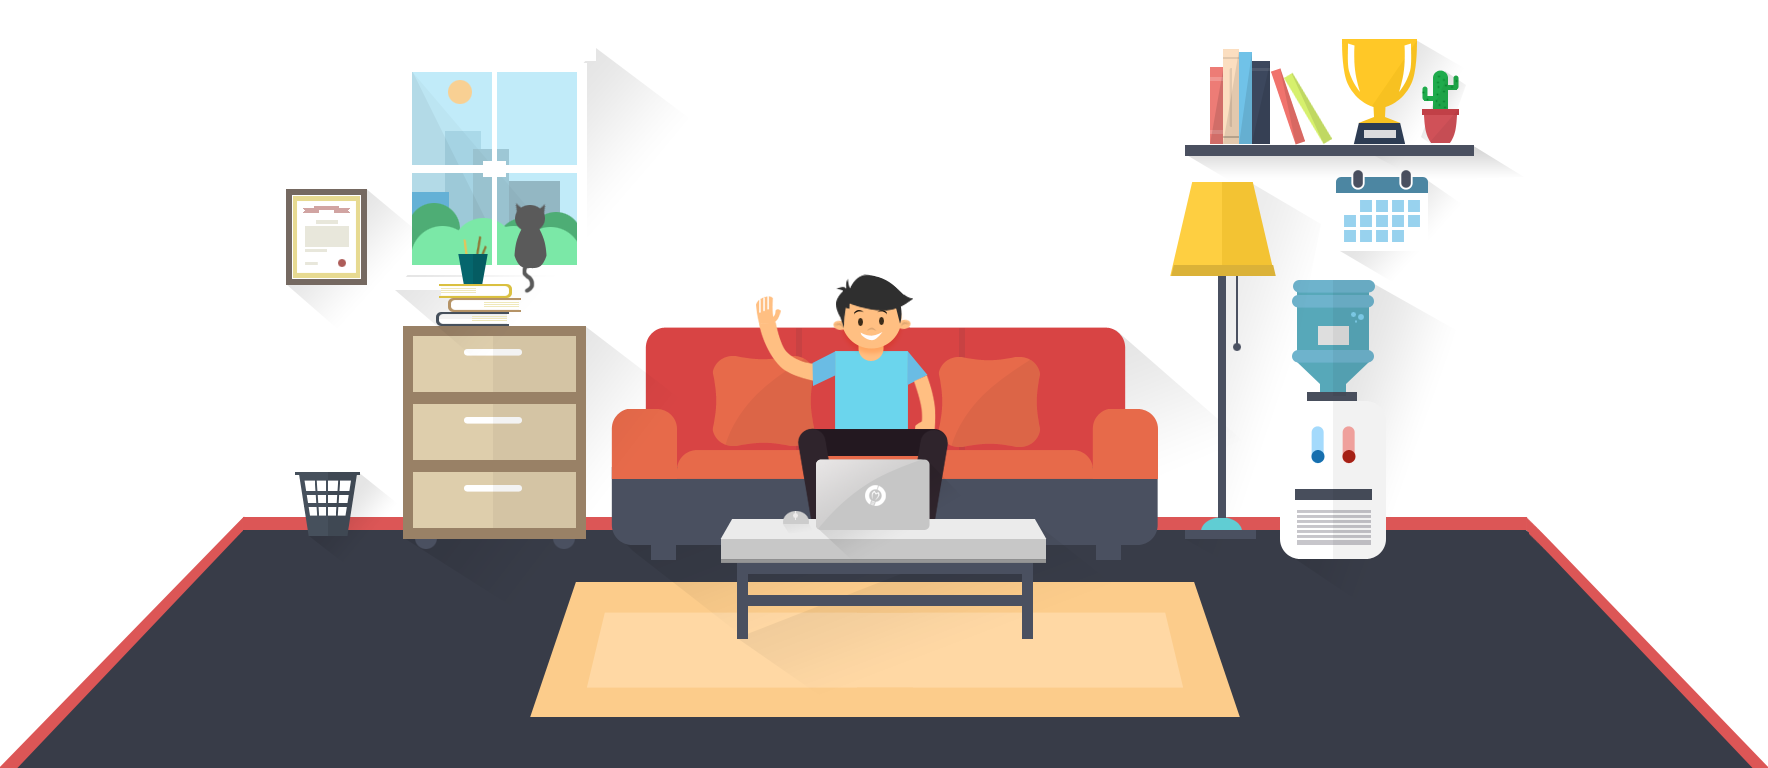
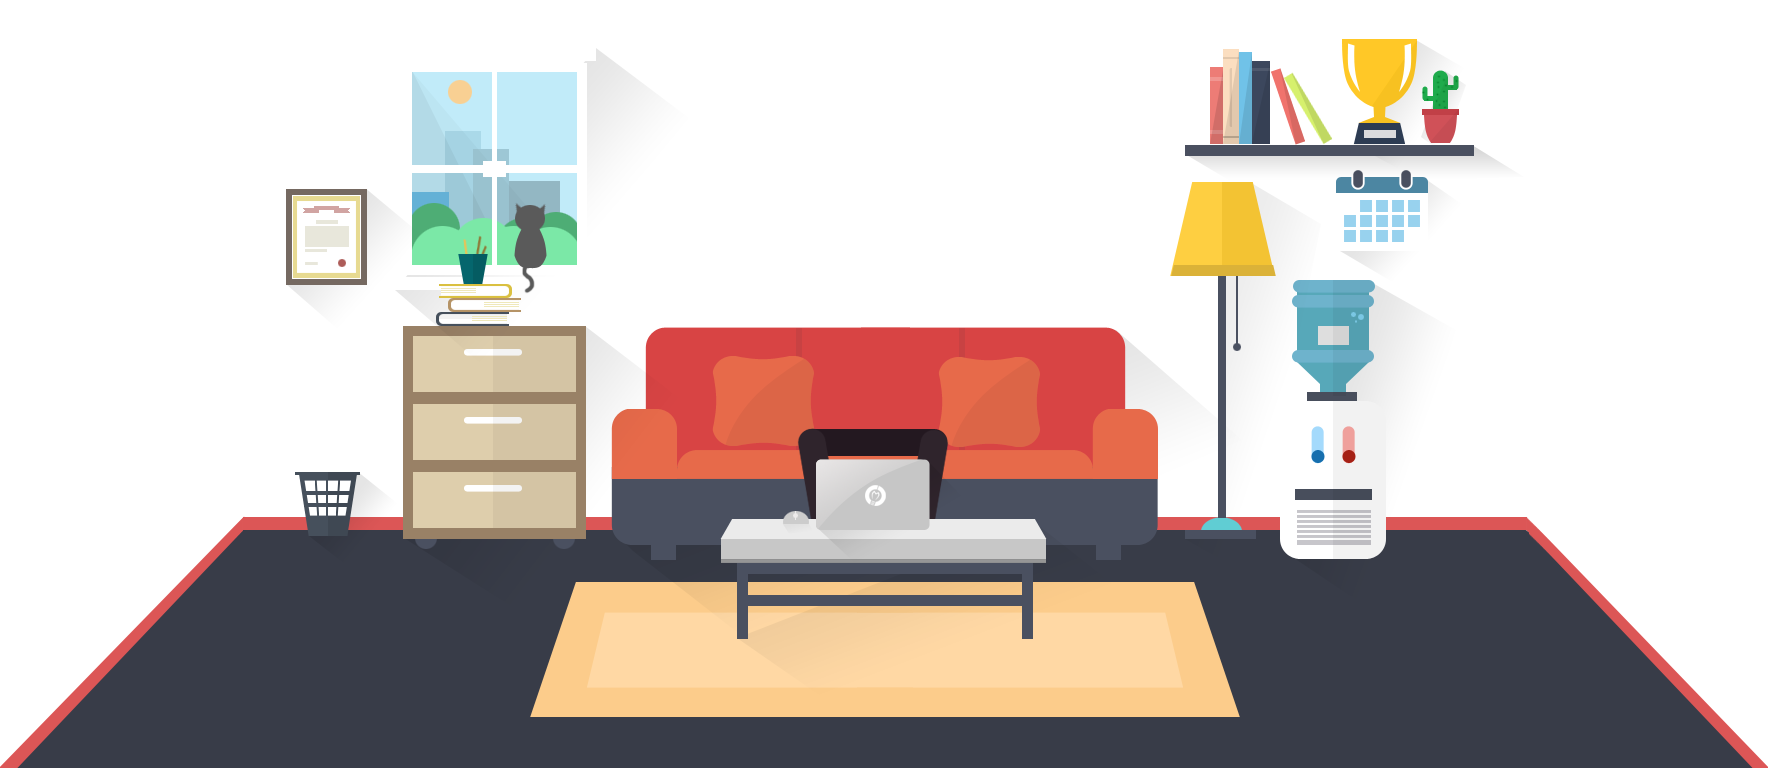
add parlour animation

Changed region(s): [[0.4044, 0.3438, 0.5288, 0.5625]]

diff --git a/assets/css/own-animate.css b/assets/css/own-animate.css
@@ -228,7 +228,7 @@ body{
 .galon{
 	width: 98px;
 	height: 100px;
-	margin-top: 300px;
+	margin-top: 140px;
 	position: relative;
 	left: 1000px;
 }
@@ -485,6 +485,147 @@ body{
     100% {left: 1300px; top:0px; }
 }
 
+/*----------------------------parlour-face------------------------------*/
+
+.parlour-body{
+  top: 273px;
+  left: 515px;
+  width: 125px;
+  height: 156px;
+  background: url("../images/parlour-face.png");
+  position: relative;
+}
+
+.parlour-dress{
+  top: 78px;
+  left: 0px;
+  width: 22px;
+  height: 35px;
+  background: url("../images/parlour-dress.png");
+  position: absolute;
+}
+
+
+.parlour-hand{
+  top: 24px;
+  left: -50px;
+  width: 65px;
+  height: 86px;
+  background: url("../images/parlour-hand.png");
+  position: absolute;
+  animation-name: handshake;
+  animation-duration: 2s;
+  animation-iteration-count: infinite;
+}
+
+.parlour-eyes-left{
+  border-radius:50%; width:5px; height: 8px; background: #333;
+  position: absolute;
+  margin-top: -32px;
+  left: 43px;
+  animation-name: welcome-eyes-animation;
+  animation-duration: 3s;
+  animation-iteration-count: infinite;
+}
+
+.parlour-eyes-right{
+  border-radius:50%; width:5px; height: 8px; background: #333;
+  position: absolute;
+  margin-top: -32px;
+  left: 68px;
+  animation-name: welcome-eyes-animation;
+  animation-duration: 3s;
+  animation-iteration-count: infinite;
+}
+
+.parlour-mouth{
+  position: absolute;
+  margin-top: 60px;
+  left: 48px;
+  background-color: #fff;
+  width: 20px;
+  height: 5px;
+  border-radius:  0  0 50% 50% /  0px 0px 100% 100%;
+  animation-name: welcome-mouth;
+  animation-duration: 3s;
+  animation-iteration-count: infinite;
+}
+
+.parlour-eyebrow-left{
+  position: absolute;
+  margin-top: -30px;
+  left: 40px;
+  width: 10px;
+  height: 10px;
+  border-radius: 50%;
+  -ms-box-shadow: 2px 2px 0 0 #333;
+  -o-box-shadow: 2px 2px 0 0 #333;
+  -webkit-box-shadow: 2px 2px 0 0 #333;
+  box-shadow: 2px 2px 0 0 #333;
+  -ms-transform: rotate(220deg);
+  /* IE 9 */
+  -webkit-transform: rotate(220deg);
+  transform: rotate(220deg);
+  animation-name: welcome-eyebrow;
+  animation-duration: 3s;
+  animation-iteration-count: infinite;
+}
+
+.parlour-eyebrow-right{
+  position: absolute;
+  margin-top: -30px;
+  left: 66px;
+  width: 10px;
+  height: 10px;
+  border-radius: 50%;
+  -ms-box-shadow: 2px 2px 0 0 #333;
+  -o-box-shadow: 2px 2px 0 0 #333;
+  -webkit-box-shadow: 2px 2px 0 0 #333;
+  box-shadow: 2px 2px 0 0 #333;
+  -ms-transform: rotate(220deg);
+  /* IE 9 */
+  -webkit-transform: rotate(220deg);
+  transform: rotate(220deg);
+  animation-name: welcome-eyebrow;
+  animation-duration: 3s;
+  animation-iteration-count: infinite;
+}
+
+@-moz-keyframes handshake{
+  0% {
+    -moz-transform: rotate(0deg);
+    transform: rotate(0deg);
+  }
+  50% {
+    -moz-transform: rotate(-40deg);
+    transform: rotate(-40deg);
+    top: 40px;
+    left: -60px;
+  }
+  100% {
+    -moz-transform: rotate(0deg);
+    transform: rotate(0deg);
+  }
+}
+
+@-webkit-keyframes handshake{
+  0% {
+    -webkit-transform: rotate(0deg);
+    transform: rotate(0deg);
+  }
+  50% {
+    -moz-transform: rotate(-40deg);
+    transform: rotate(-35deg);
+    top: 39px;
+    left: -60px;
+  }
+  100% {
+    -webkit-transform: rotate(0deg);
+    transform: rotate(0deg);
+  }
+}
+
+
 /*--------------------------------fan-----------------------------------*/
 
 .fan-frame{
@@ -612,6 +753,10 @@ body{
 		overflow-x: hidden;
 	}
 
+  .parlour-body{
+    left: 415px;
+  }
+
 	.galon{
 		left: 900px;
 	}
@@ -624,9 +769,16 @@ body{
 	.centerFan{
 		left:942px;
 	}
+
+  .buttons{
+    margin-top: -30px;
+  }
 }
 
 @media (max-width: 991px){
+  .parlour-body{
+    display: none;
+  }
 	.fan-top{
 		display: none;
 	}
@@ -648,4 +800,7 @@ body{
 	.car2{
 		display: none;
 	}
+  .buttons{
+    margin-top: 0px;
+  }
 }

diff --git a/application/views/home/homepage/about.php b/application/views/home/homepage/about.php
@@ -62,6 +62,18 @@
             </div>
             </div>
 
+
+            <div class="parlour-body">
+              <div class="parlour-hand"></div>
+              <div class="parlour-dress"></div>
+              <div class="parlour-eyes-left"></div>
+              <div class="parlour-eyes-right"></div>
+              <div class="parlour-mouth"></div>
+              <div class="parlour-eyebrow-left"></div>
+              <div class="parlour-eyebrow-right"></div>
+            </div>
+
+
             <?php
               include 'galon.php';
             ?>
